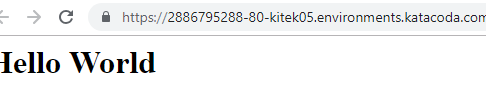
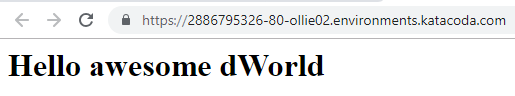
Mengerjakan course 2 praktikum 3

diff --git a/minggu-03/readme.md b/minggu-03/readme.md
@@ -1,40 +1,57 @@
-#Docker
+# Docker
 
 ## Docker Playground
 
 ### Course 1 
 
-1. Mencari Image Docker Redis  
-![Step 1](https://raw.githubusercontent.com/indrahad/tcclanjut/master/minggu-03/course-01/step1.png)
- image docker redis sudah siap untuk di gunakan
+1. Mencari Image Docker Redis  </br>
+![Step 1](https://raw.githubusercontent.com/indrahad/tcclanjut/master/minggu-03/course-01/step1.png)</br>
+ image docker redis sudah siap untuk di gunakan 
 
-2. Menjalankan image docker redis dengan tag terakhir
-![Step 2](https://raw.githubusercontent.com/indrahad/tcclanjut/master/minggu-03/course-01/step2.png)
+2. Menjalankan image docker redis dengan tag terakhir</br>
+![Step 2](https://raw.githubusercontent.com/indrahad/tcclanjut/master/minggu-03/course-01/step2.png)</br>
 `-d` untuk menjalankan container dan menampilkan container id
 
-3. Melihat Container yang 
+3. Melihat Container yang</br> 
 ![Step 3](https://raw.githubusercontent.com/indrahad/tcclanjut/master/minggu-03/course-01/step3.png)
 
-4. Menjalankan container redis dengan parameter lain
-![Step 4](https://raw.githubusercontent.com/indrahad/tcclanjut/master/minggu-03/course-01/step4.png)
+4. Menjalankan container redis dengan parameter lain</br>
+![Step 4](https://raw.githubusercontent.com/indrahad/tcclanjut/master/minggu-03/course-01/step4.png)</br>
 '-d' menjalankan di background '-p' Menjalankan dengan port dynamic 6379, dengan ini container akan bertambah
 
-5. Melakukan setup untuk menjalankan container di port 6379
+5. Melakukan setup untuk menjalankan container di port 6379</br>
 ![Step 5](https://raw.githubusercontent.com/indrahad/tcclanjut/master/minggu-03/course-01/step5.png)
 
-6. Melihat container yang sedang berjalan
+6. Melihat container yang sedang berjalan</br>
 ![Step 6](https://raw.githubusercontent.com/indrahad/tcclanjut/master/minggu-03/course-01/step6.png)
 
-7. Menjalanakan Image redis dengan parameter yang lebih Detail
+7. Menjalanakan Image redis dengan parameter yang lebih Detail</br>
 ![Step 7](https://raw.githubusercontent.com/indrahad/tcclanjut/master/minggu-03/course-01/step7.png)
 
-8. Menjalankan ubuntu di dalam container
+8. Menjalankan ubuntu di dalam container</br>
 ![Step 8](https://raw.githubusercontent.com/indrahad/tcclanjut/master/minggu-03/course-01/step8.png)
 
-9. Mencoba mengakses bash dari ubuntu
+9. Mencoba mengakses bash dari ubuntu </br>
 ![Step 9](https://raw.githubusercontent.com/indrahad/tcclanjut/master/minggu-03/course-01/step9.png)
 
-### Course 2
+### Course 2 
 
+1. Membuat Dockerfile </br>
+![Step 1](https://raw.githubusercontent.com/indrahad/tcclanjut/master/minggu-03/course-02/step1.png)
+
+2. Membuat file html </br>
+![Step 2](https://raw.githubusercontent.com/indrahad/tcclanjut/master/minggu-03/course-02/step2.png)
+
+3. Build image dockernya dengan nametag yang diinginkan </br>
+![Step 3](https://raw.githubusercontent.com/indrahad/tcclanjut/master/minggu-03/course-02/step3.png)
+
+4. Melihat list docker image </br>
+![Step 4](https://raw.githubusercontent.com/indrahad/tcclanjut/master/minggu-03/course-02/step4.png)
+
+5. Menjalankan docker yang telah di buat tadi</br>
+![Step 5](https://raw.githubusercontent.com/indrahad/tcclanjut/master/minggu-03/course-02/step5.png)
+
+6. Menjalankan Docker </br>
+![Step 6](https://raw.githubusercontent.com/indrahad/tcclanjut/master/minggu-03/course-02/step6.png)
 
 ### Course 3
